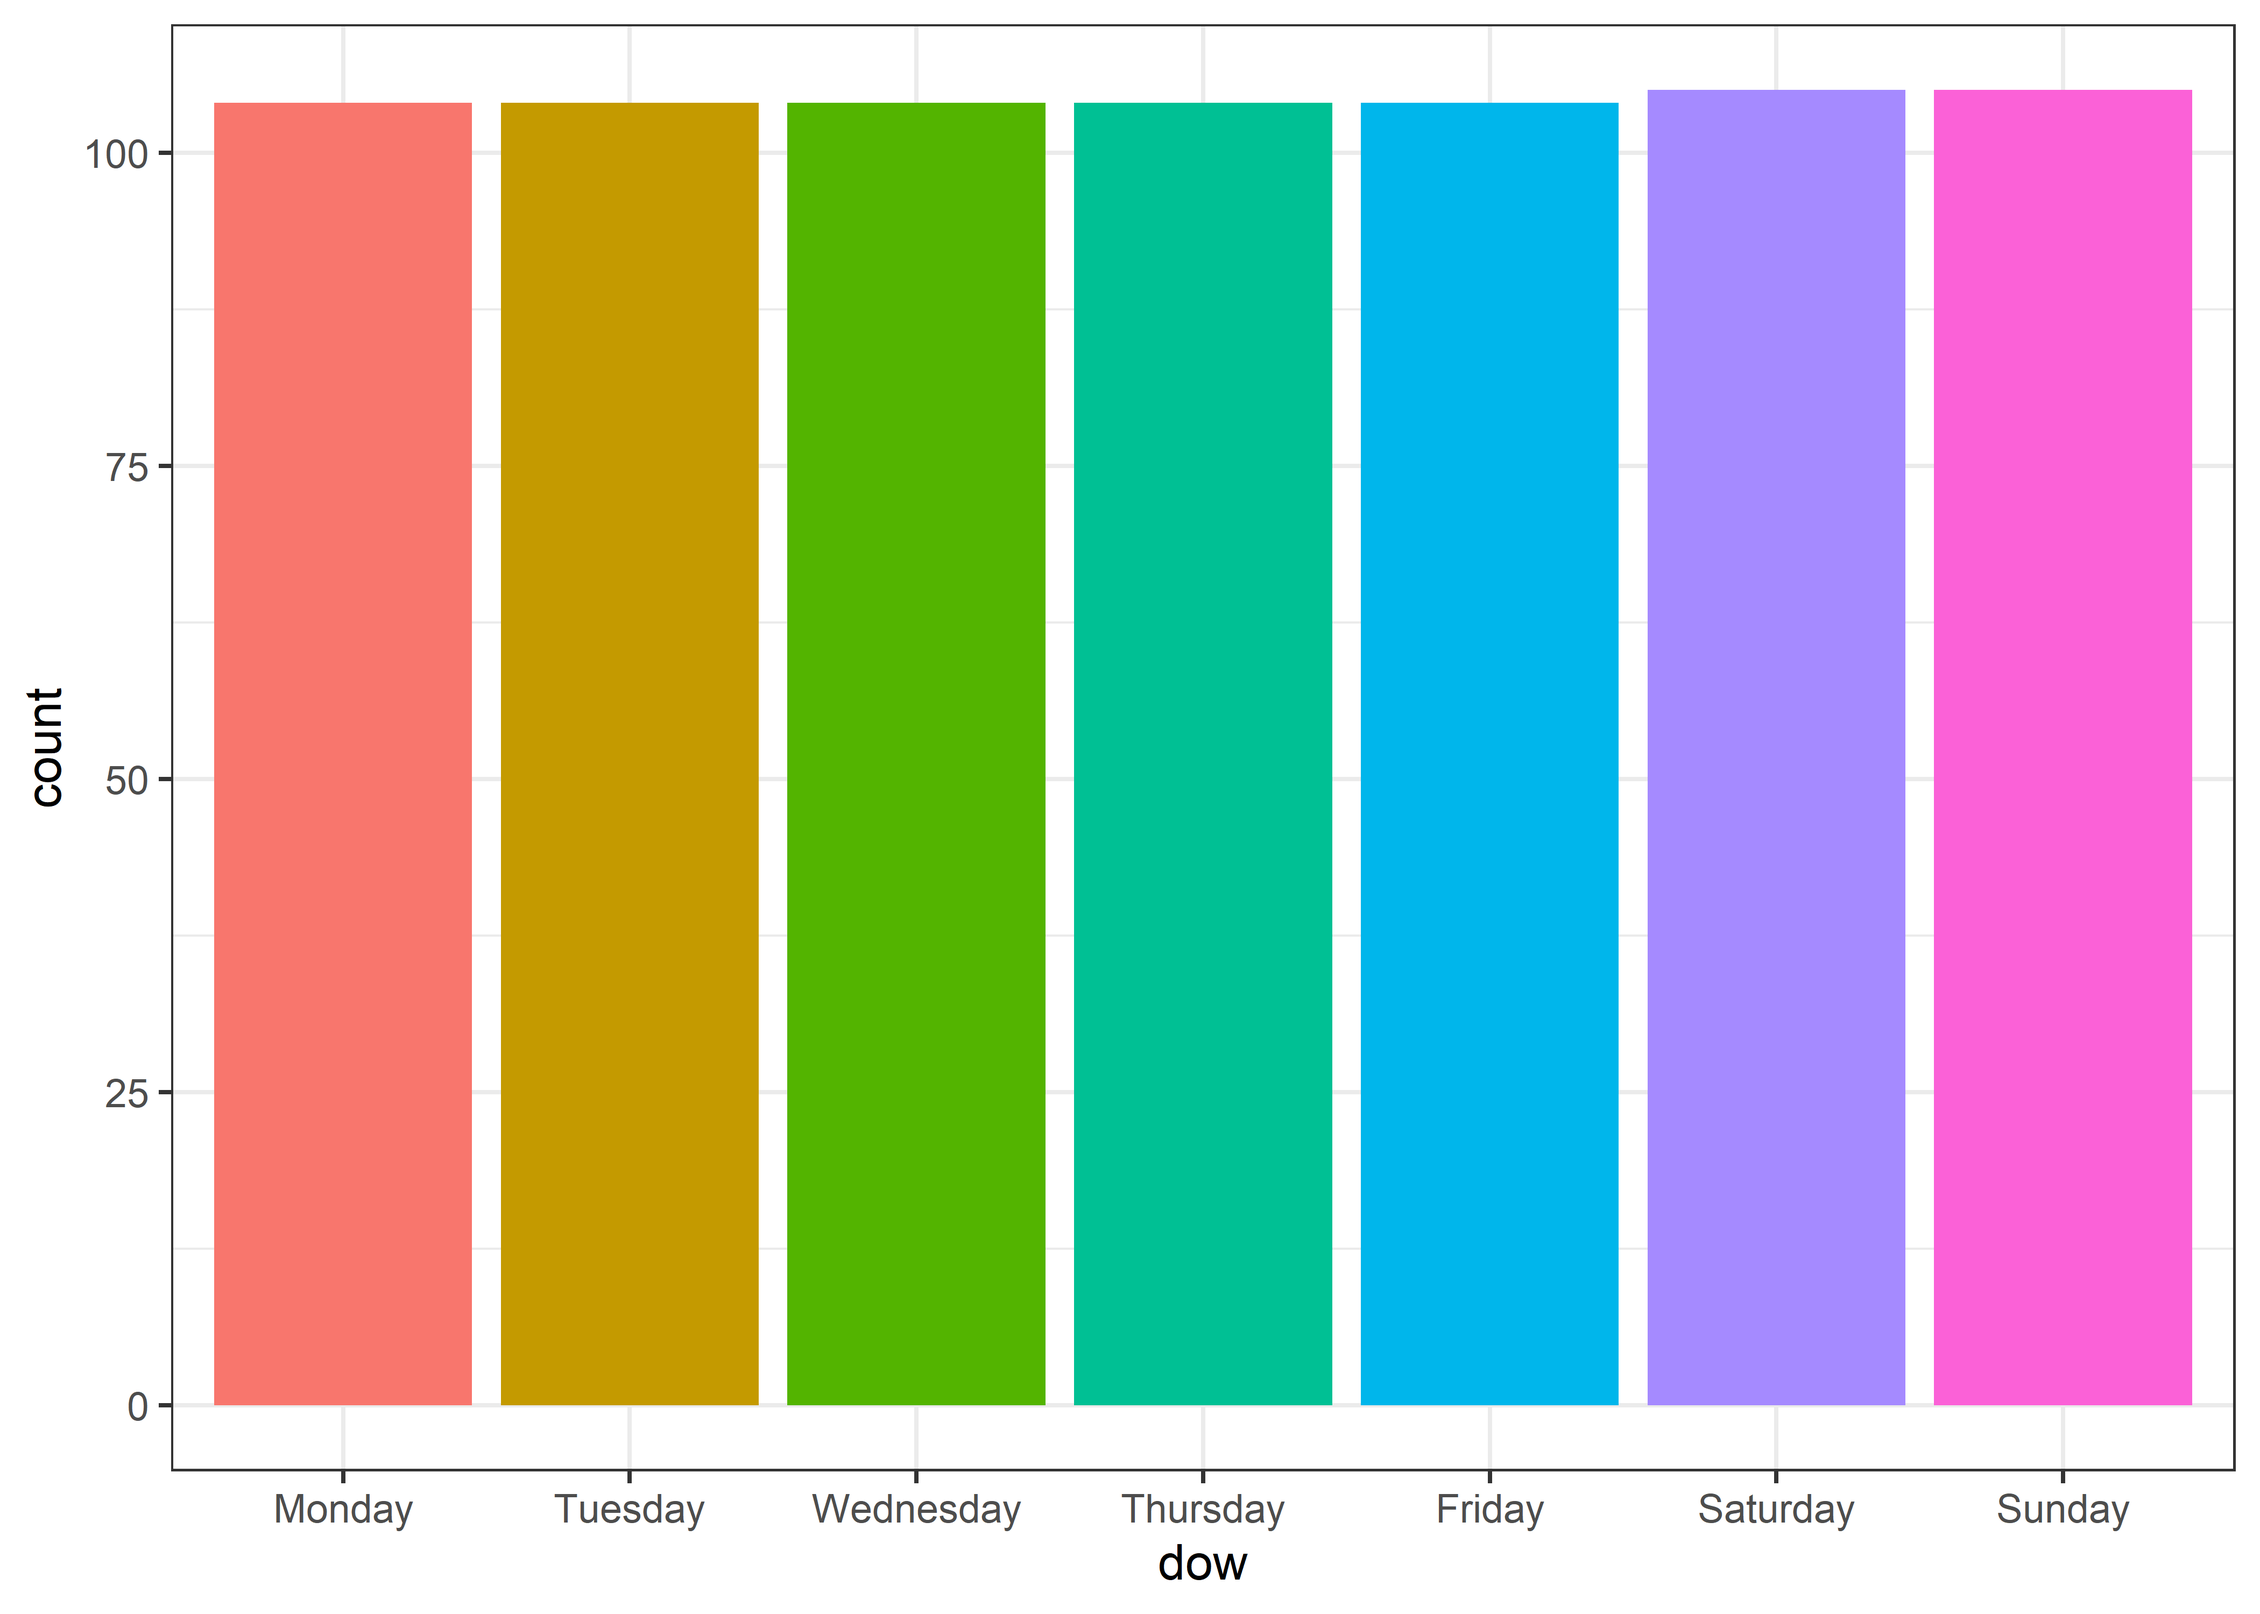
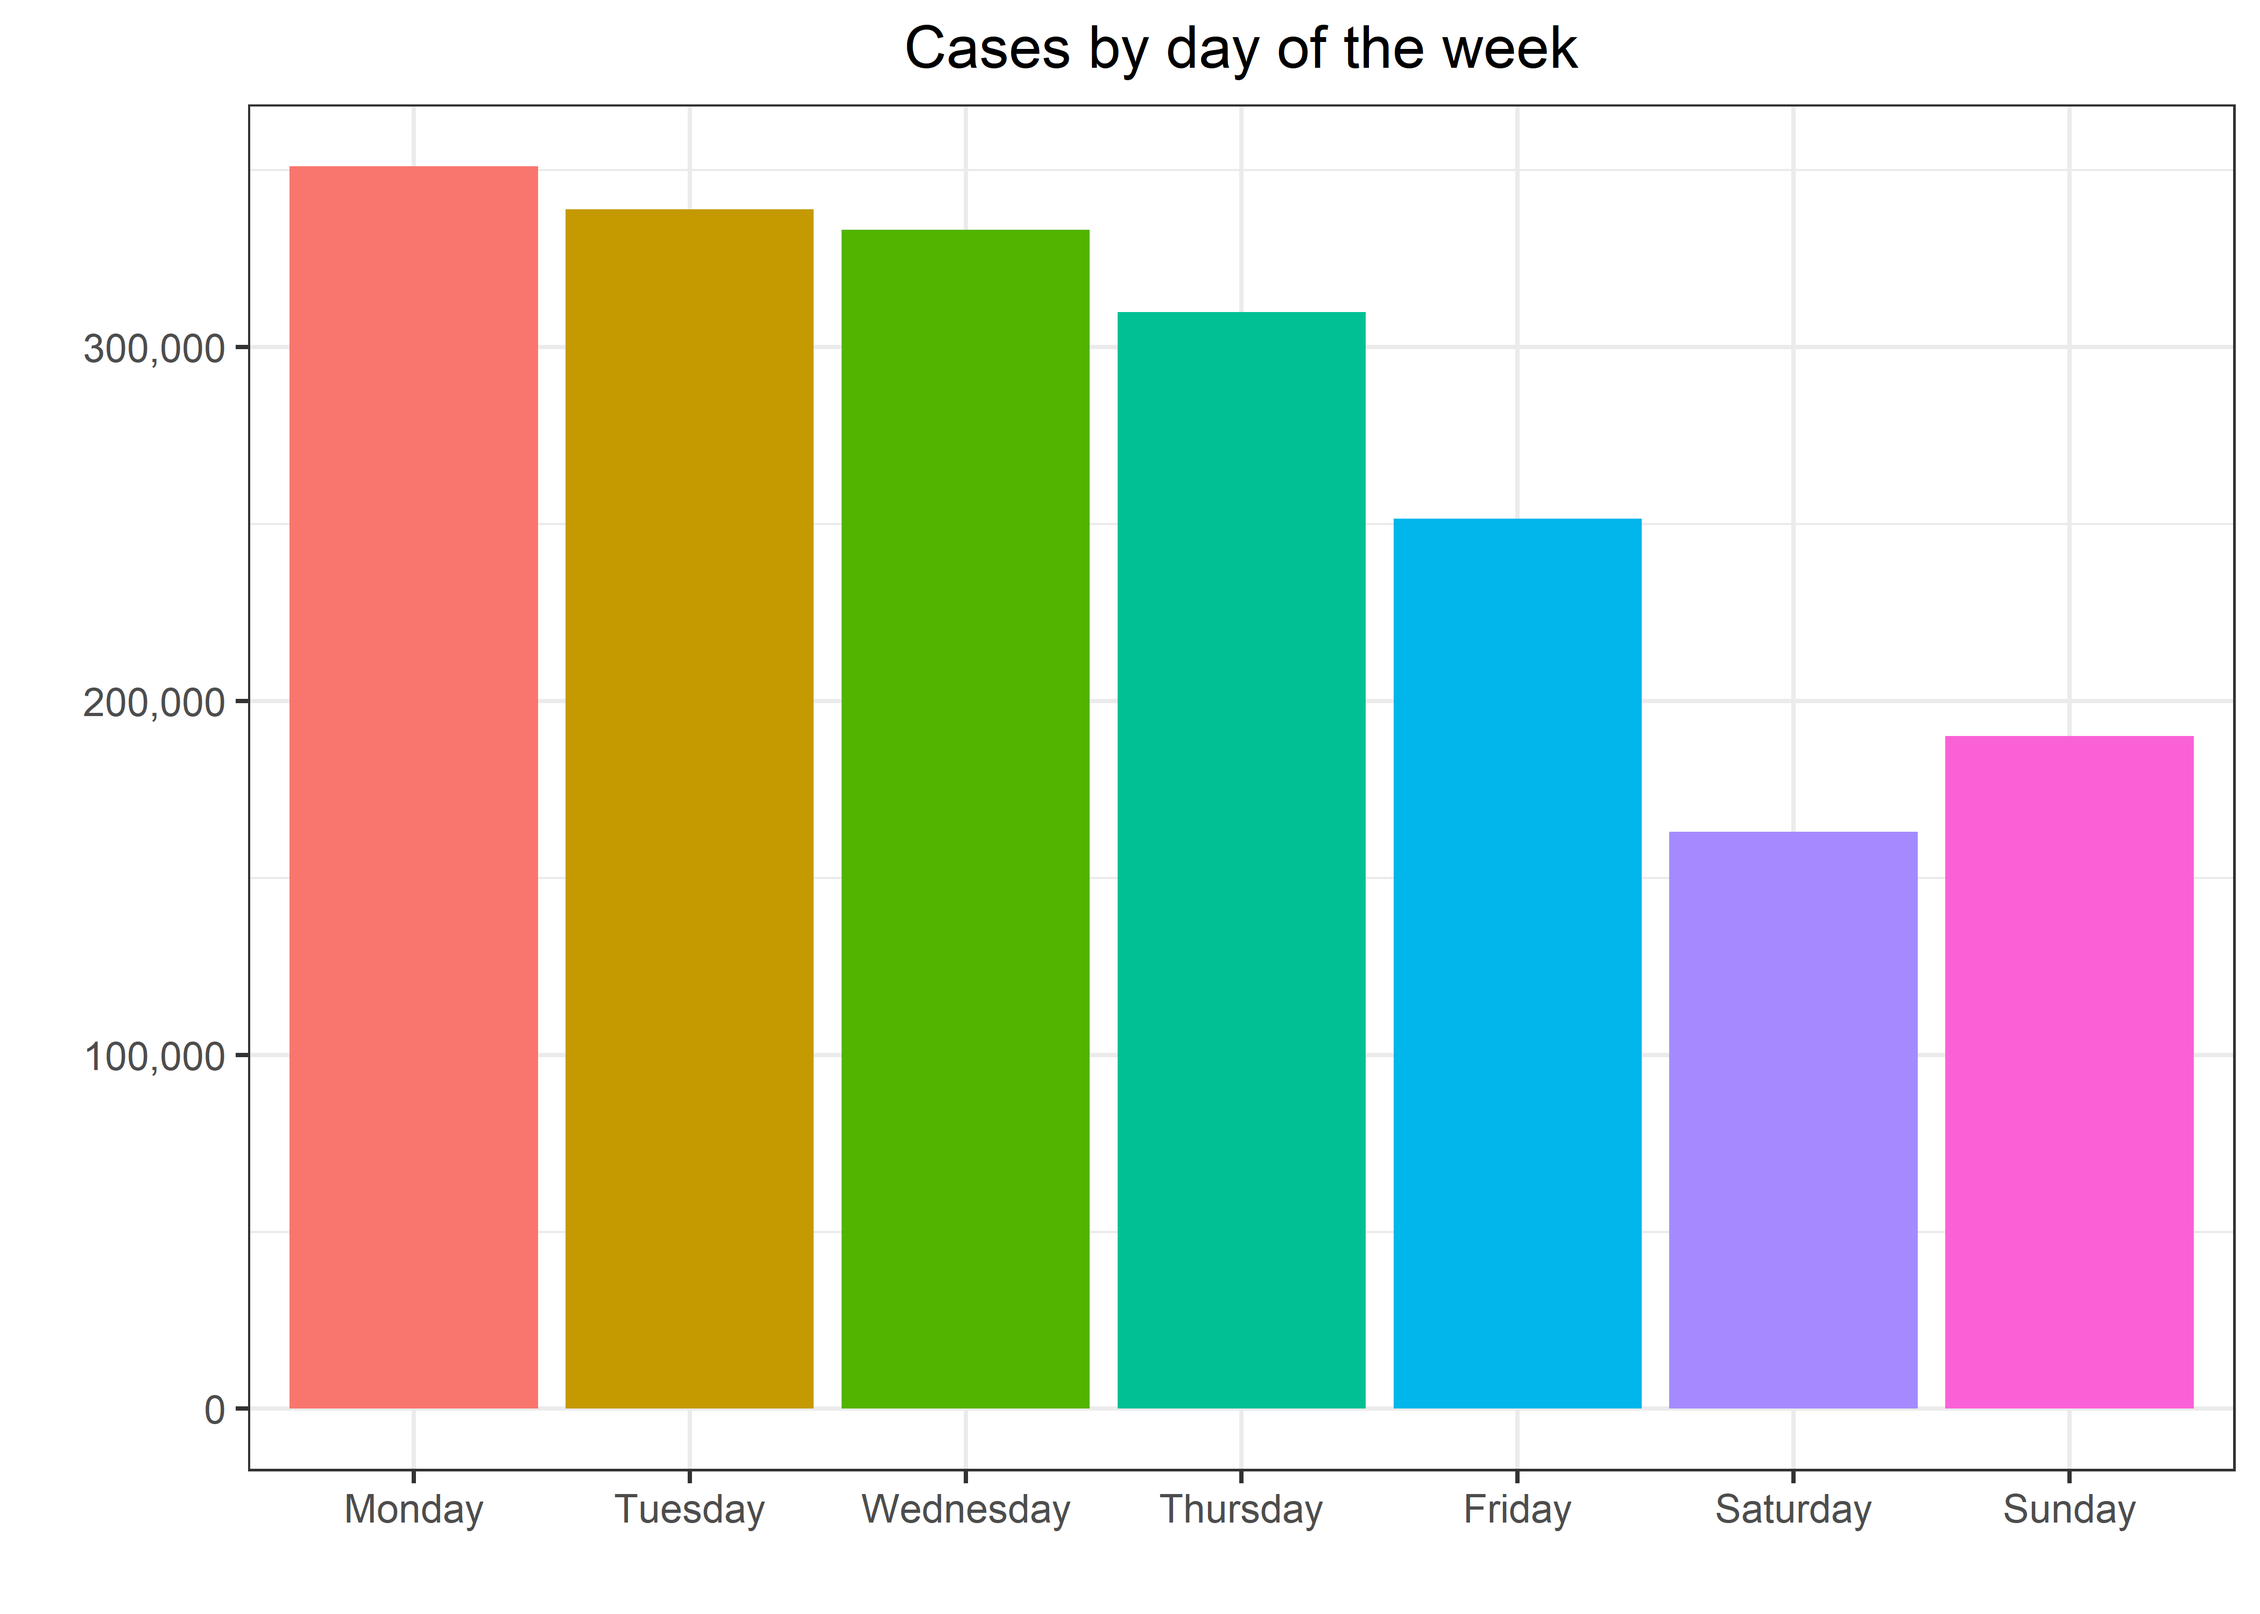
Correction to earlier plot (DoW)

diff --git a/Covid.md b/Covid.md
@@ -134,8 +134,10 @@ df %>%
          dow = fct_relevel(dow, "Monday", "Tuesday", "Wednesday", "Thursday", "Friday", "Saturday", "Sunday")) %>%
   filter(!is.na(dow)) %>%
   group_by(dow) %>%
-  ggplot(aes(dow, fill = dow)) + geom_bar() +
-  theme(legend.position = "")
+  ggplot(aes(dow, case_count, fill = dow)) + geom_col() + 
+  labs(y = "", x = "", title = "Cases by day of the week") +
+  theme(legend.position = "", plot.title = element_text(hjust = 0.5)) + 
+  scale_y_continuous(labels = scales::label_comma())
 ```
 
 ![](Covid_files/figure-gfm/unnamed-chunk-8-1.png)<!-- -->
